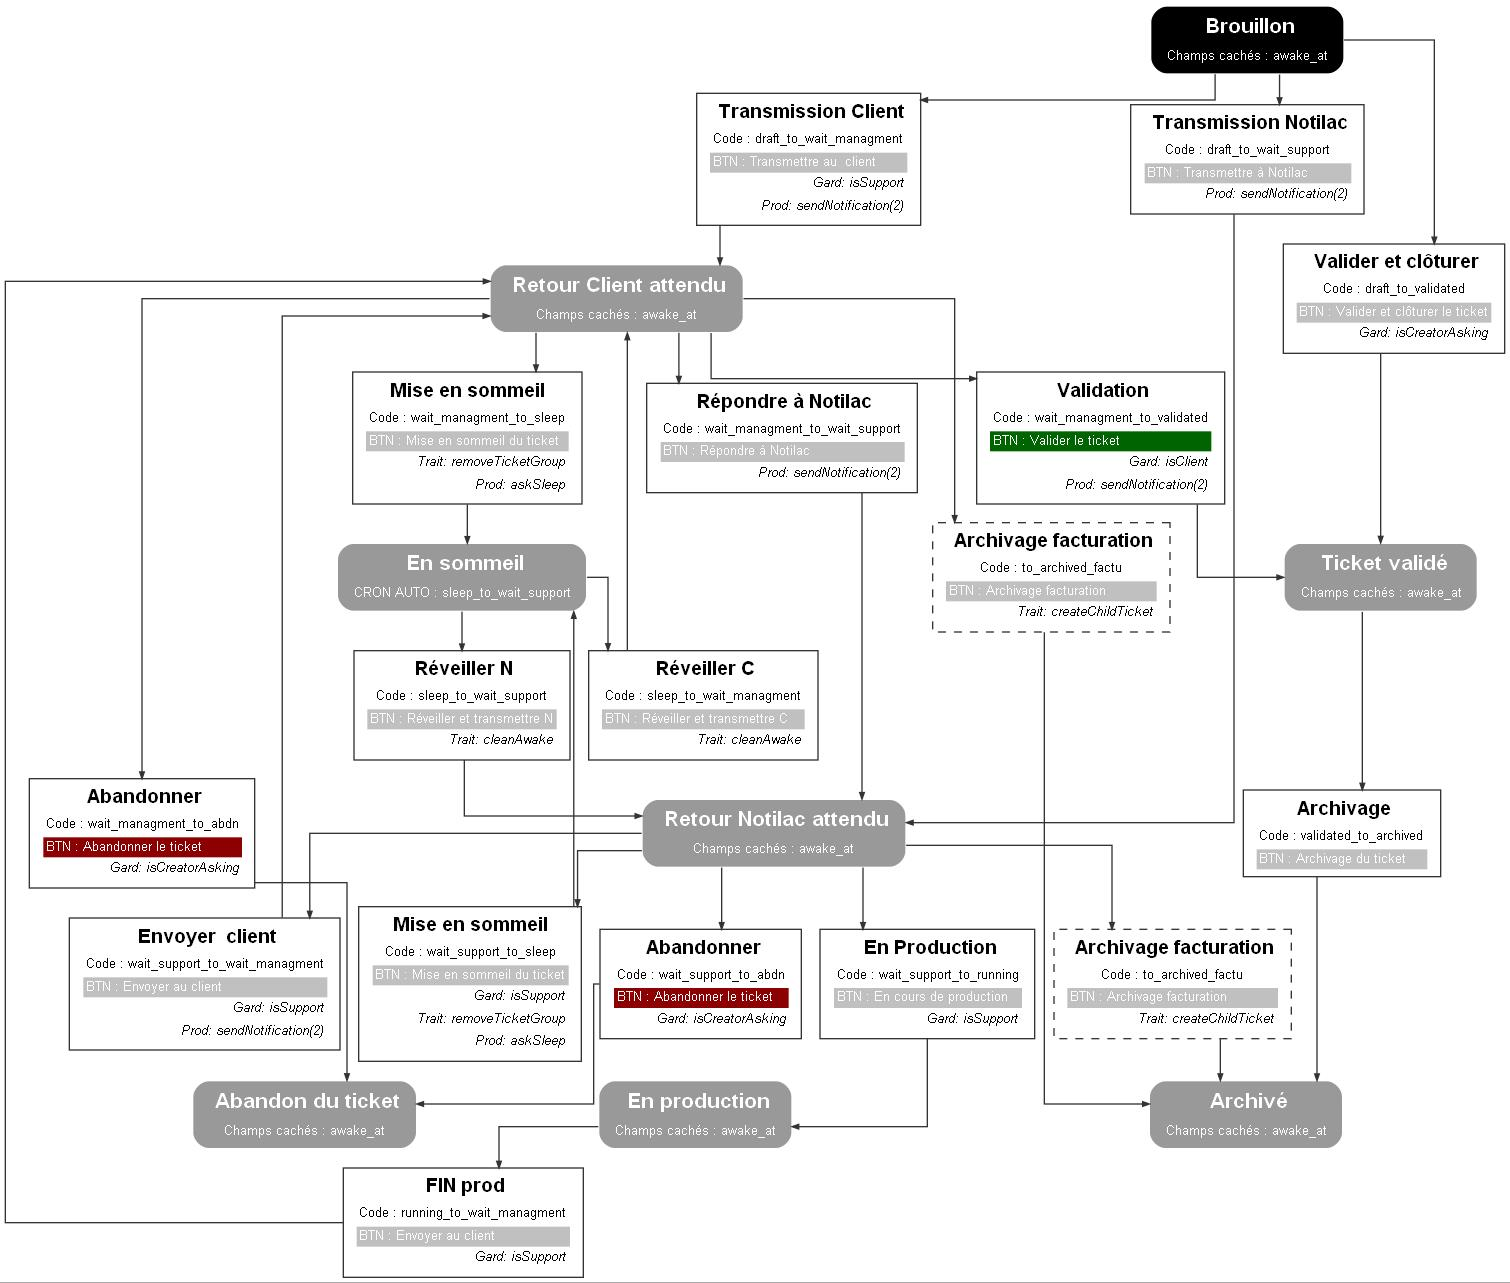
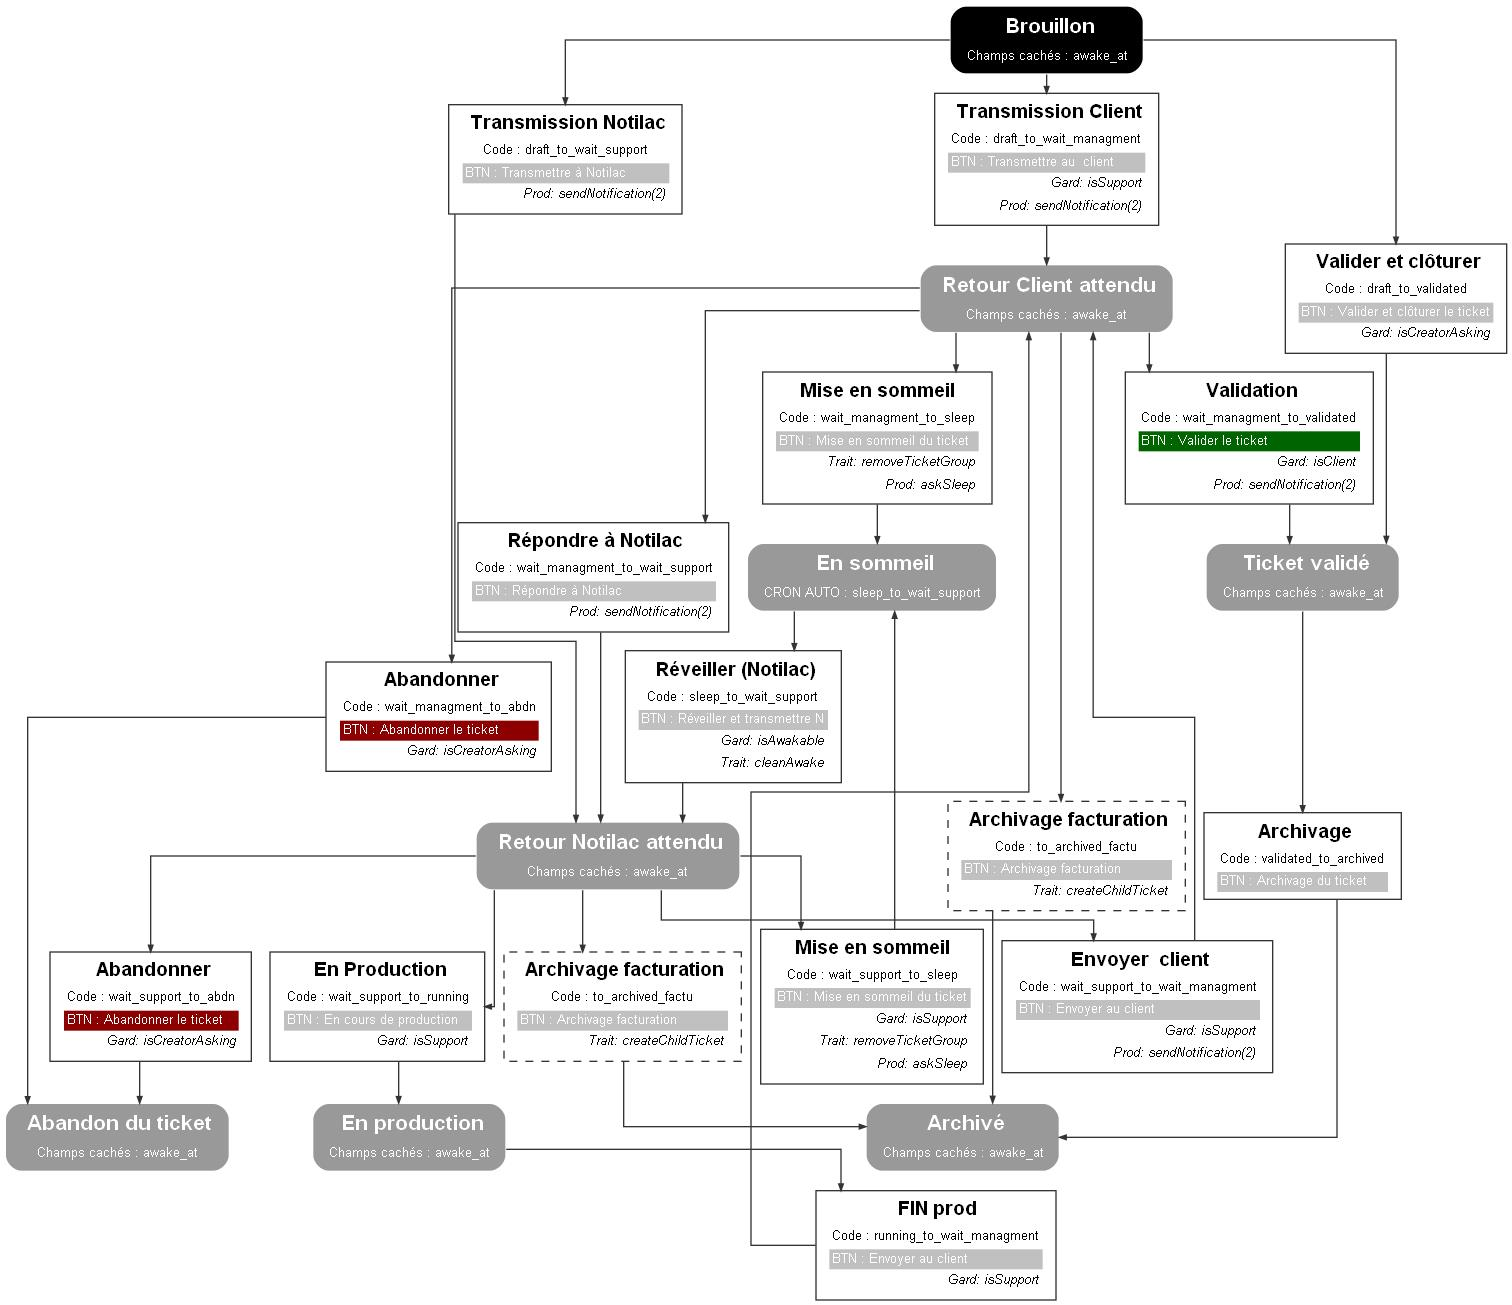
MAJ support reveille des taches

Changed region(s): [[0.0, 0.0, 1.0, 1.0], [0.0934, 0.2182, 0.1245, 0.2494], [0.0, 0.5924, 0.0311, 0.6235]]

diff --git a/lang/fr/ticket_w.php b/lang/fr/ticket_w.php
@@ -28,7 +28,6 @@ return [
             'draft_to_wait_managment' => 'Transmettre au  client',
             'draft_to_wait_support' => 'Transmettre à Notilac',
             'running_to_wait_managment' => 'Envoyer au client',
-            'sleep_to_wait_managment' => 'Réveiller et transmettre C',
             'sleep_to_wait_support' => 'Réveiller et transmettre N',
             'to_archived_factu' => 'Archivage facturation',
             'validated_to_archived' => 'Archivage du ticket',
@@ -48,8 +47,7 @@ return [
         'draft_to_wait_managment' => 'Transmission Client',
         'draft_to_wait_support' => 'Transmission Notilac',
         'running_to_wait_managment' => 'FIN prod',
-        'sleep_to_wait_managment' => 'Réveiller C',
-        'sleep_to_wait_support' => 'Réveiller N',
+        'sleep_to_wait_support' => 'Réveiller (Notilac)',
         'to_archived_factu' => 'Archivage facturation',
         'validated_to_archived' => 'Archivage',
         'wait_managment_to_abdn' => 'Abandonner',

diff --git a/listeners/WorkflowTicketWListener.php b/listeners/WorkflowTicketWListener.php
@@ -3,6 +3,7 @@
 use Carbon\Carbon;
 use Waka\Utils\Classes\Listeners\WorkflowListener;
 use Waka\Support\Models\Settings;
+use Backend\Models\User;
 
 class WorkflowTicketWListener extends WorkflowListener
 {
@@ -40,6 +41,20 @@ class WorkflowTicketWListener extends WorkflowListener
         return $blocked;
     }
 
+    public function isAwakable($event, $args = null)
+    {
+        $model = $event->getSubject();
+        $date = Carbon::now();
+        if ($model->awake_at->lte($date)) {
+            return false;
+        }
+        return true;
+    }
+
+    
+
+
+
     public function isClient($event, $args = null)
     {
         $blocked = false;
@@ -53,6 +68,7 @@ class WorkflowTicketWListener extends WorkflowListener
         $blocked = !Settings::isSupportMember(); //Si pas équipe support
         return $blocked;
     }
+    
 
     /**
      * FONCTIONS DE TRAITEMENT PEUVENT ETRE APPL DANS LES FONCTIONS CLASSIQUES

diff --git a/docs/wf_ticket_w.md b/docs/wf_ticket_w.md
@@ -80,13 +80,10 @@
         *  sendNotification | type : prod
             * code : waka.support::new_ticket 
             * mode : support 
-* **Réveiller C** | code : sleep_to_wait_managment
-    * Bouton : Réveiller et transmettre C
-    * Liste des fonctions 
-        *  cleanAwake | type : enter
-* **Réveiller N** | code : sleep_to_wait_support
+* **Réveiller (Notilac)** | code : sleep_to_wait_support
     * Bouton : Réveiller et transmettre N
     * Liste des fonctions 
+        *  isAwakable | type : gard
         *  cleanAwake | type : enter
 * **Transmission Client** | code : draft_to_wait_managment
     * Bouton : Transmettre au  client
